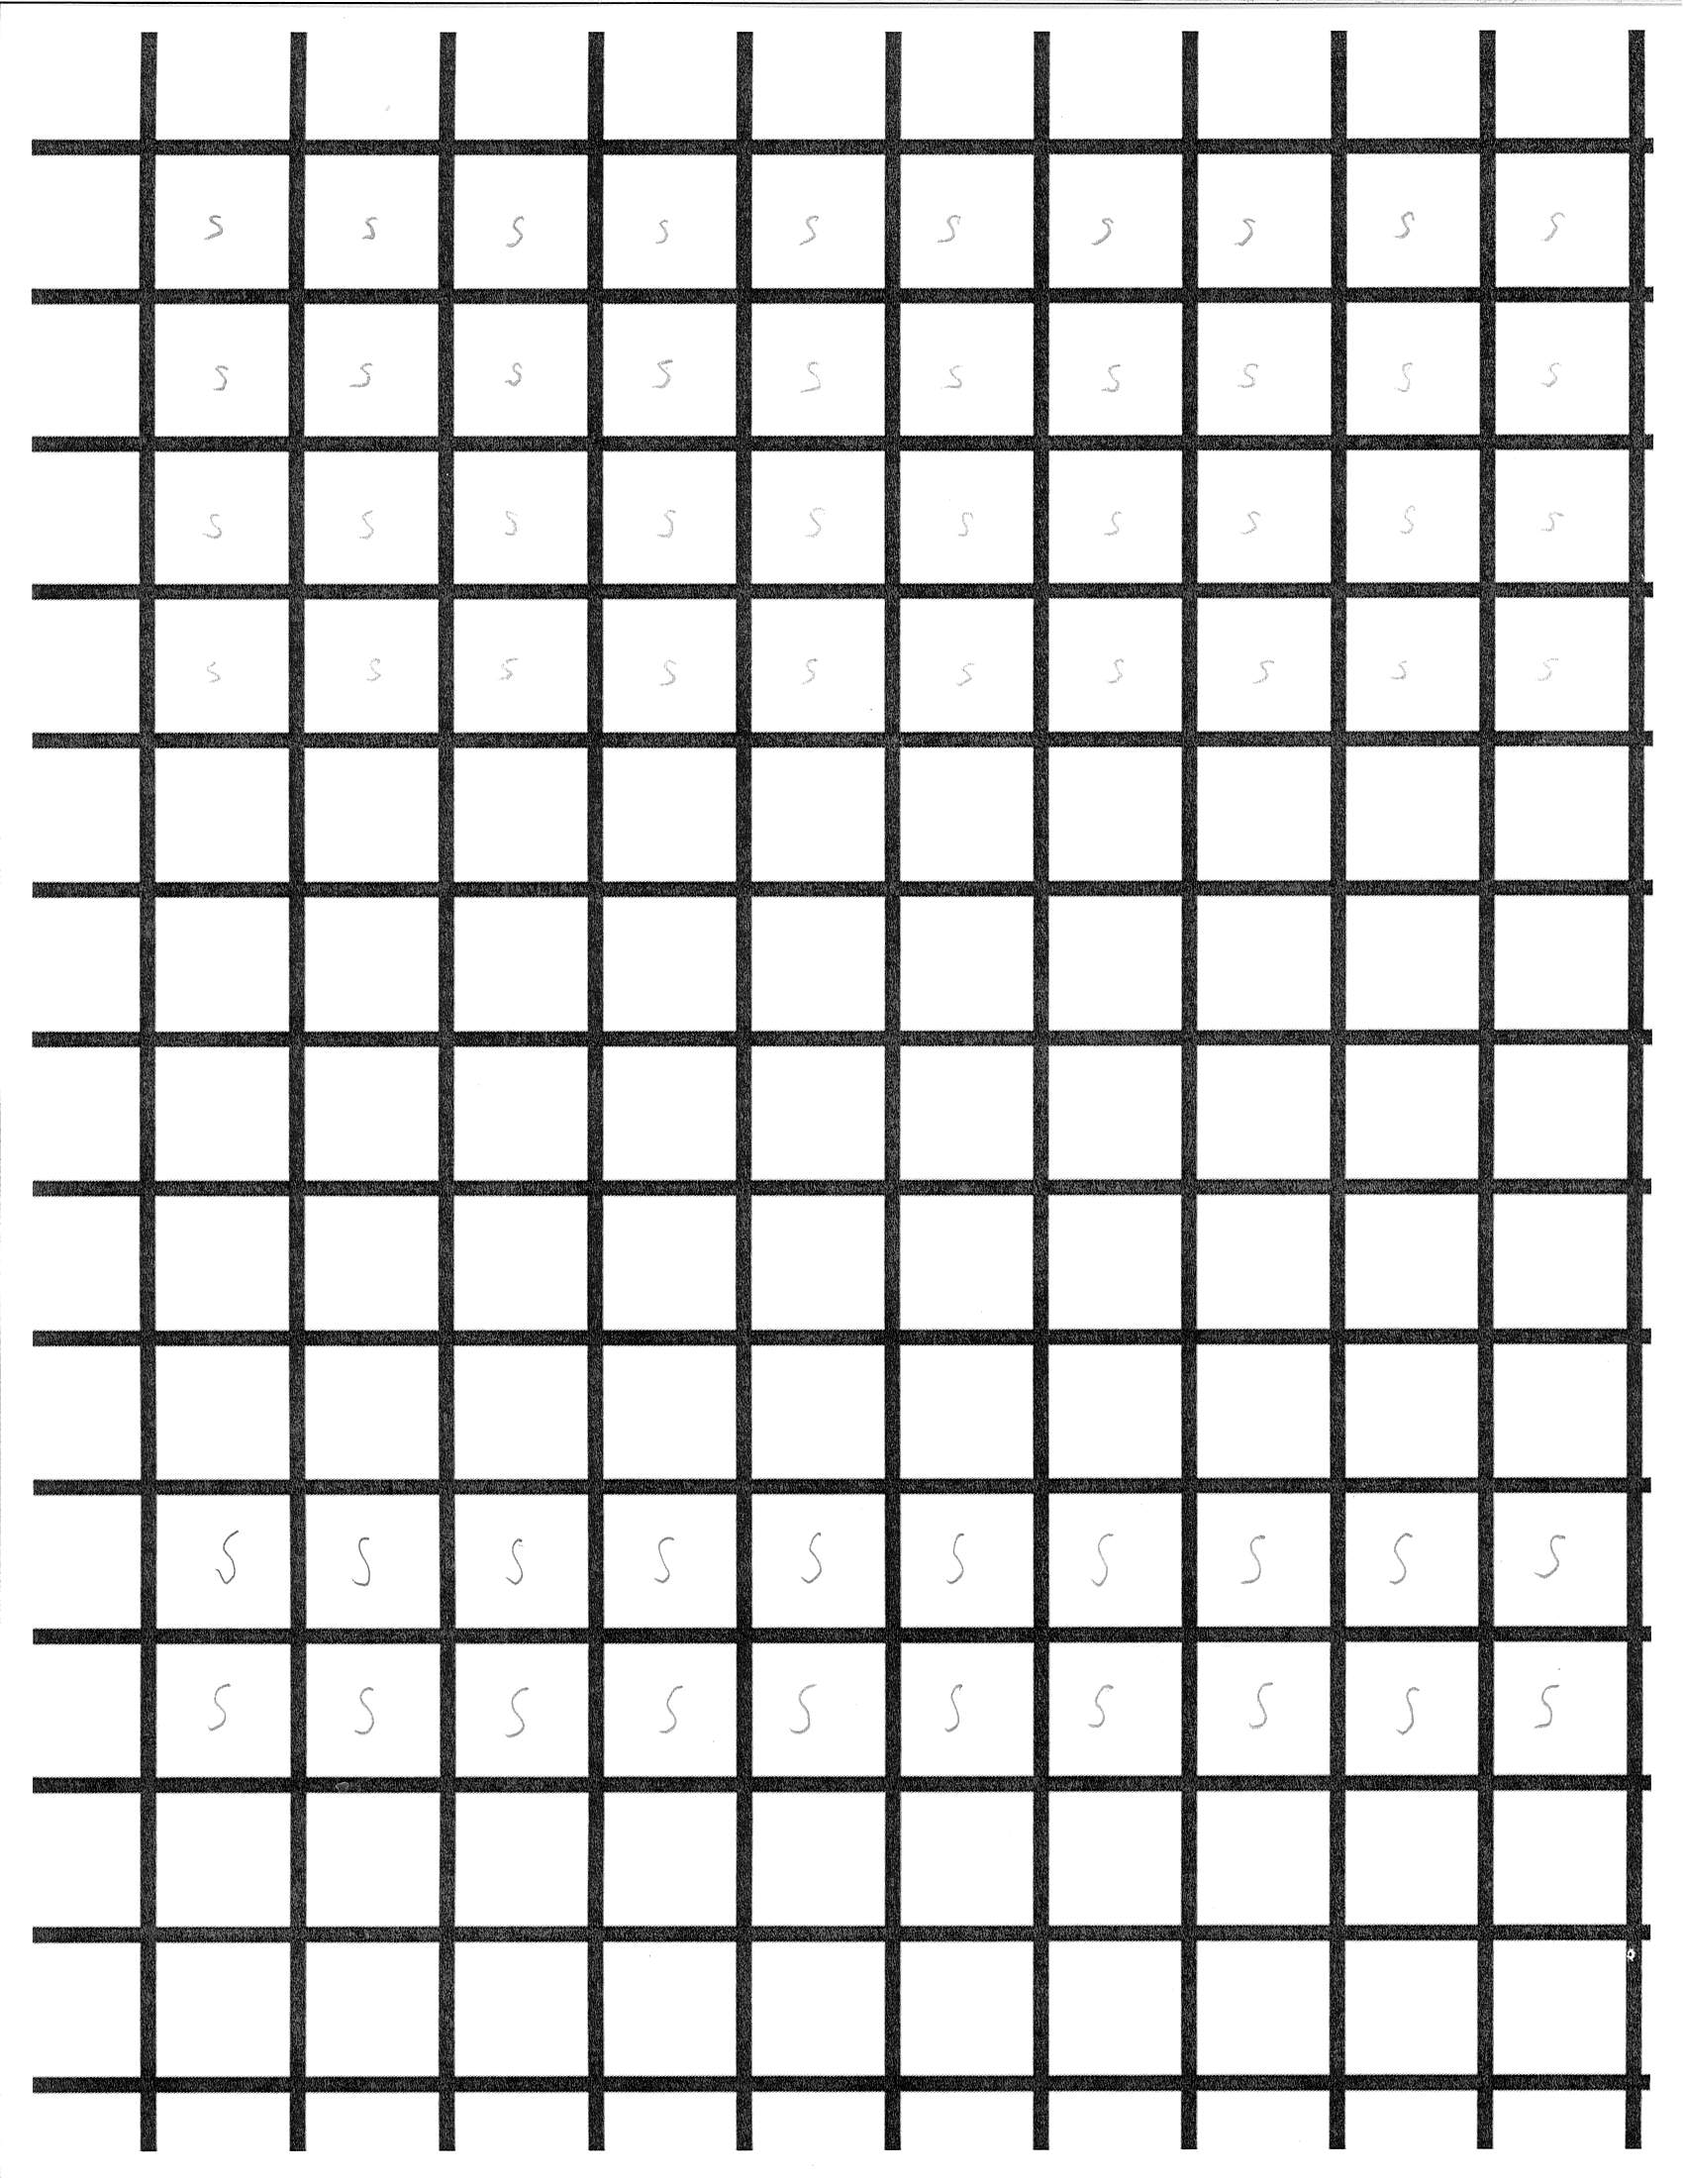
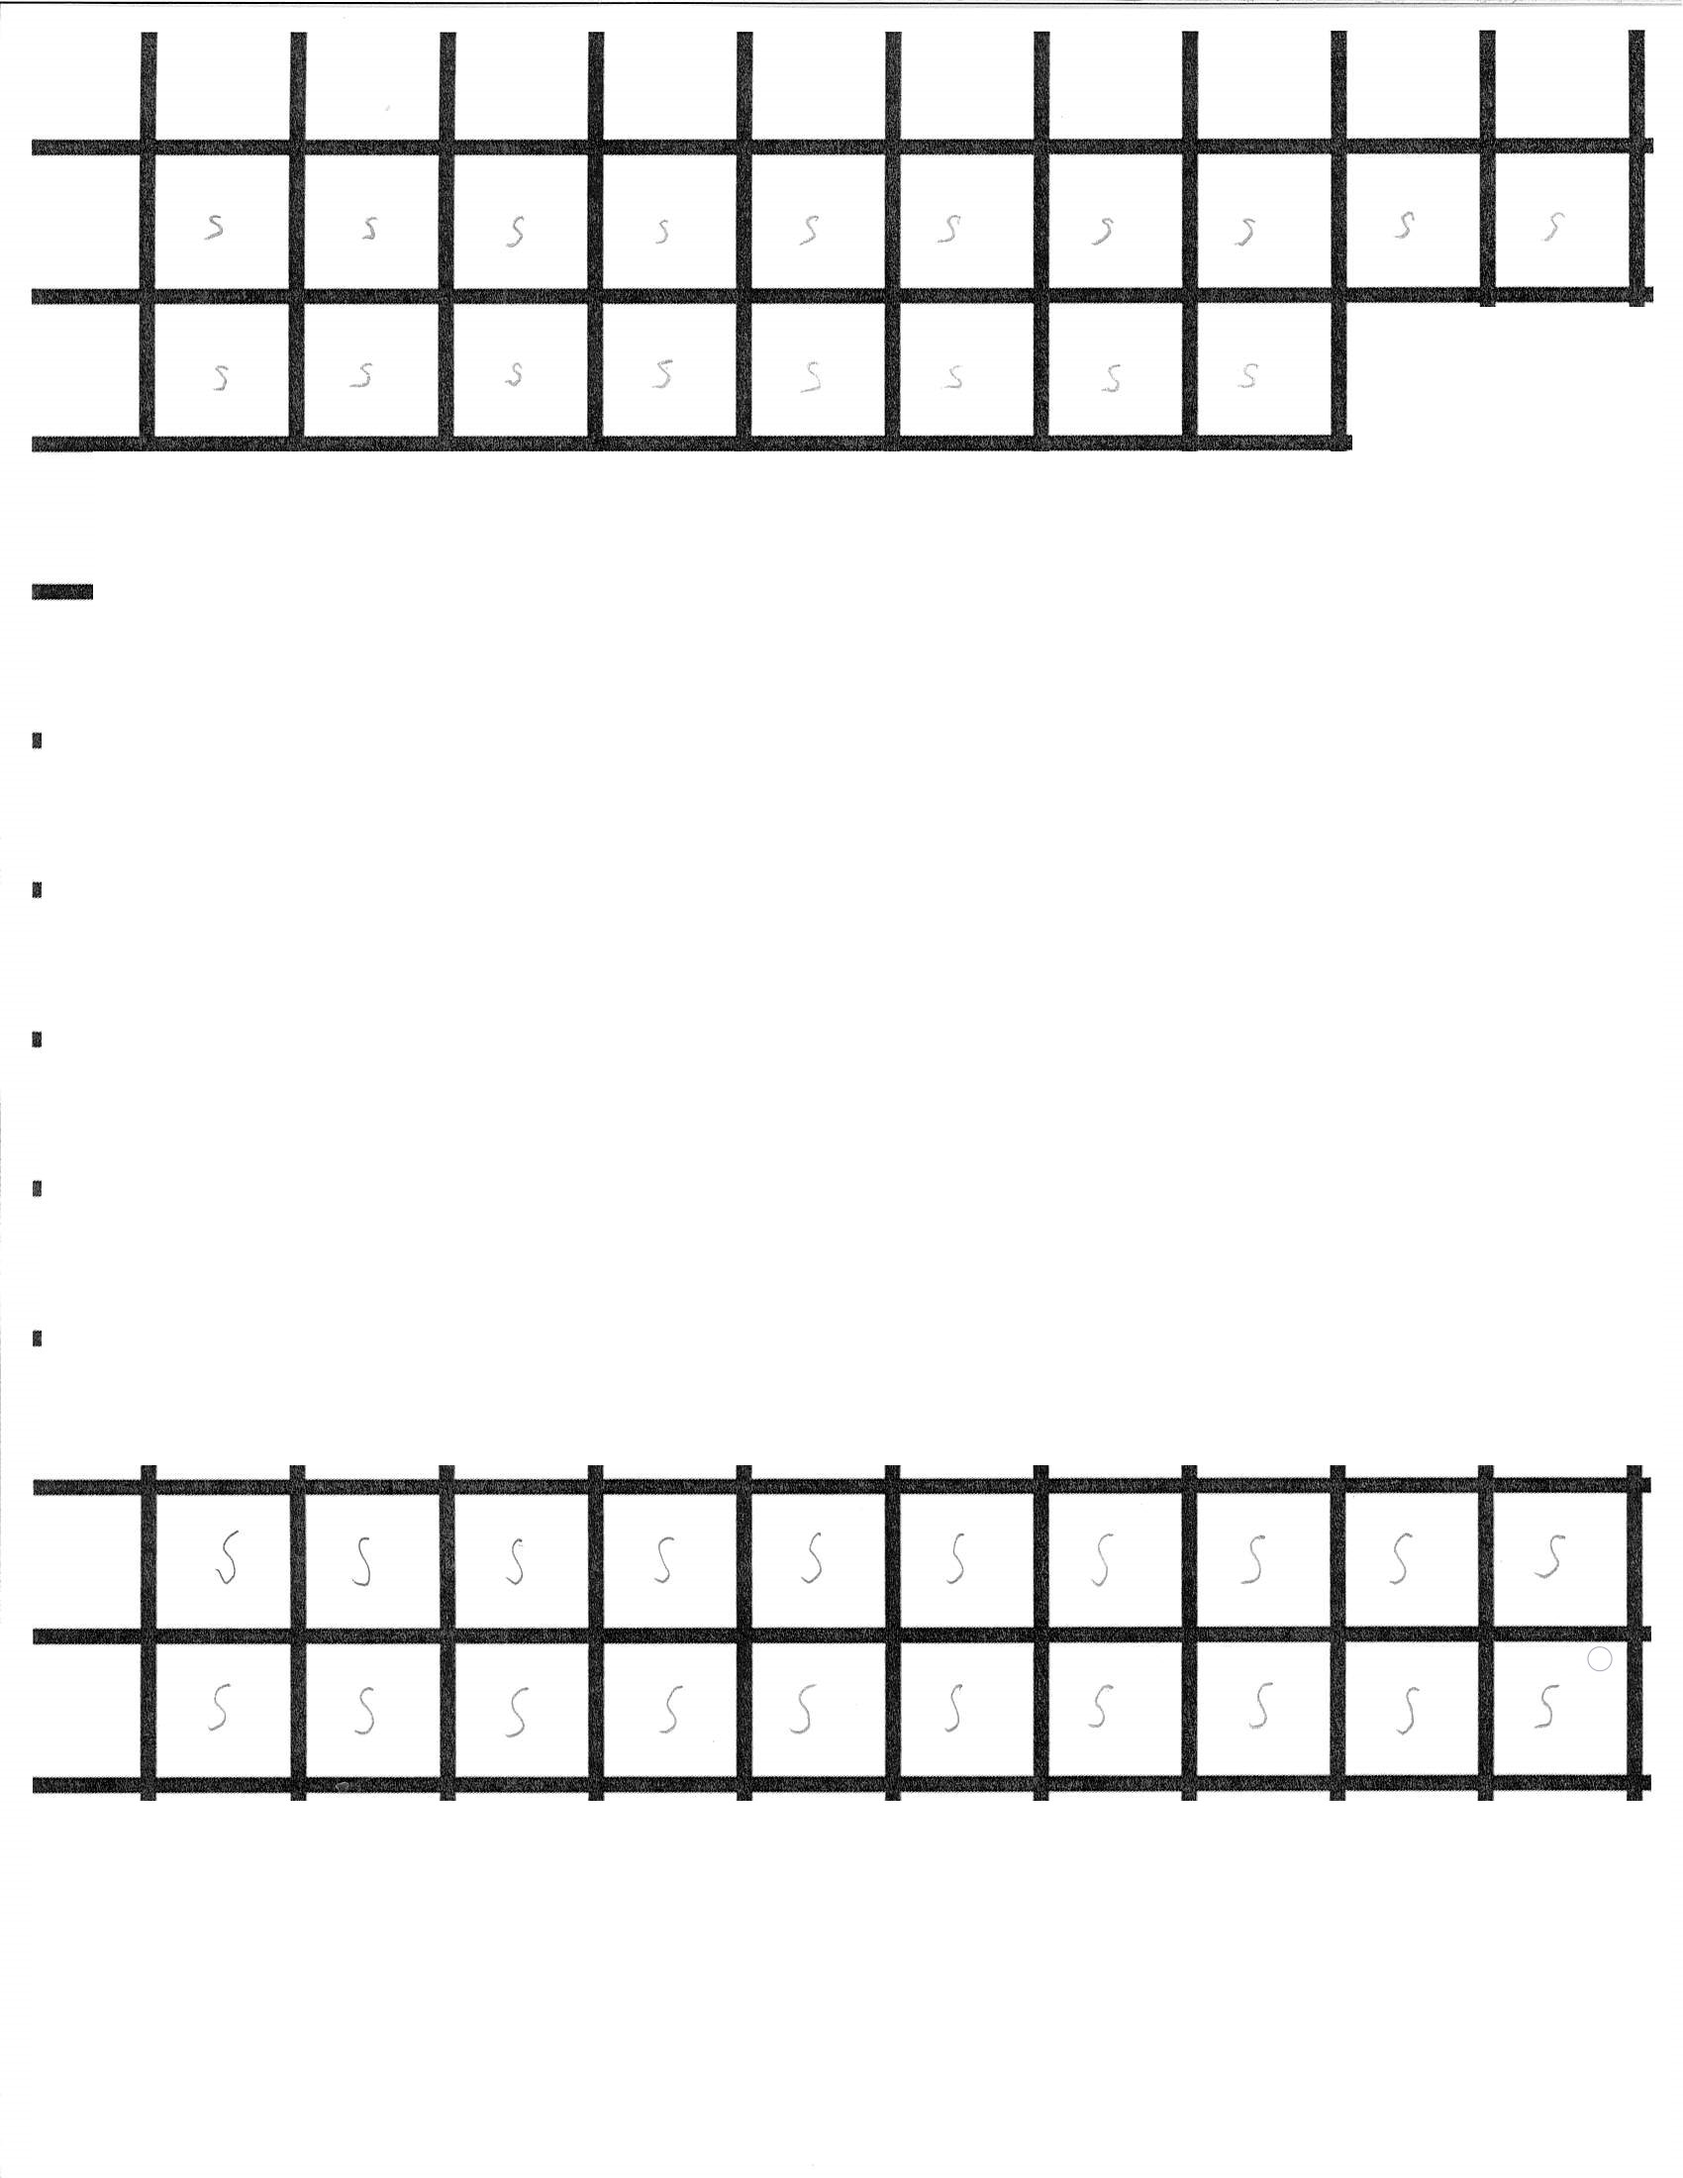
add word wrapping, change some characters

Changed region(s): [[0.0312, 0.1236, 0.9976, 0.68], [0.0, 0.8345, 0.9976, 0.9891]]

diff --git a/src/main/java/com/github/burgerguy/handwriter/main/gui/PageDisplay.java b/src/main/java/com/github/burgerguy/handwriter/main/gui/PageDisplay.java
@@ -6,9 +6,12 @@ import com.github.burgerguy.handwriter.image.GlyphImage;
 import com.github.burgerguy.handwriter.main.Main;
 import com.github.burgerguy.handwriter.page.Page;
 import com.github.burgerguy.handwriter.page.PageProvider;
+import com.github.burgerguy.handwriter.page.WordWrapMode;
 
 import javax.swing.*;
 import java.awt.*;
+import java.util.ArrayList;
+import java.util.List;
 import java.util.Random;
 import java.util.function.Supplier;
 
@@ -51,14 +54,14 @@ public class PageDisplay extends JComponent {
         currentPage.resetPointer();
         g.drawImage(currentPage.getBackgroundImage(), 0, 0, null);
         String text = textSupplier.get();
-        for (char c : text.toCharArray()) {
-//            float randomOffset = (random.nextFloat() * currentPage.randomOffsetMax()) - (currentPage.randomOffsetMax() / 4.0f);
-            float randomOffset = random.nextFloat() * currentPage.randomOffsetMax();
-            switch (c) {
-                case '\n' -> currentPage.nextLine();
-                case '\t' -> currentPage.addToPointer(currentPage.getWidth() * glyphFamily.getTabSize() + randomOffset);
-                case ' ' -> currentPage.addToPointer(currentPage.getWidth() * glyphFamily.getSpaceSize() + randomOffset);
-                default -> {
+        for (String line : text.split("\n")) {
+            for (String word : line.split(" ")) {
+
+                List<DrawableImage> drawableImages = new ArrayList<>();
+                float wordLength = 0;
+
+                for (char c : word.toCharArray()) {
+                    float randomOffset = random.nextFloat() * currentPage.randomOffsetMax();
                     Glyph glyph = glyphFamily.getForCharacter(c);
                     GlyphImage image = glyph.getImage();
                     int rawWidth = image.rawImage().getWidth(null);
@@ -66,14 +69,40 @@ public class PageDisplay extends JComponent {
                     float scaledHeight = image.heightInLines() * currentPage.getLineHeight() * currentPage.getHeight();
                     float scale = scaledHeight / rawHeight;
                     float scaledWidth = rawWidth * scale;
-                    g.drawImage(image.rawImage().getScaledInstance((int) scaledWidth, (int) scaledHeight, Image.SCALE_SMOOTH), (int) currentPage.getPointerX(), (int) (currentPage.getPointerY() - image.topFromAnchorPx() * scale), null);
-                    currentPage.addToPointer(scaledWidth + randomOffset);
+
+                    DrawableImage drawableImage = new DrawableImage(image.rawImage().getScaledInstance((int) scaledWidth, (int) scaledHeight, Image.SCALE_SMOOTH), image.topFromAnchorPx() * scale, scaledWidth + randomOffset);
+                    drawableImages.add(drawableImage);
+                    wordLength += drawableImage.width();
                 }
+
+                // word wrap
+                WordWrapMode wordWrapMode = currentPage.getWordWrapMode();
+
+                if (!wordWrapMode.equals(WordWrapMode.NONE)) {
+                    float wordWrapLocation = switch (wordWrapMode) {
+                        case BEFORE_WORD -> currentPage.getPointerX() + wordLength;
+                        case AFTER_WORD -> currentPage.getPointerX();
+                        default -> throw new IllegalStateException("Unexpected word wrap mode: " + wordWrapMode);
+                    };
+
+                    if (wordWrapLocation > currentPage.getWidth() * (1.0f - currentPage.getRightMargin())) {
+                        currentPage.nextLine();
+                    }
+                }
+
+                for (DrawableImage drawableImage : drawableImages) {
+                    g.drawImage(drawableImage.image(), (int) currentPage.getPointerX(), (int) (currentPage.getPointerY() - drawableImage.yOffset()), null);
+                    currentPage.addToPointer(drawableImage.width());
+                }
+                // add space to pointer
+                currentPage.addToPointer(currentPage.getWidth() * glyphFamily.getSpaceSize() + (random.nextFloat() * currentPage.randomOffsetMax()));
             }
+
+            currentPage.nextLine();
         }
     }
 
-
+    private record DrawableImage(Image image, float yOffset, float width) {}
 
 //    public void setPageNumber(int pageNo) {
 //        currentPage = pageProvider.getPage(pageNo);

diff --git a/src/main/java/com/github/burgerguy/handwriter/page/RandomBackgroundPageProvider.java b/src/main/java/com/github/burgerguy/handwriter/page/RandomBackgroundPageProvider.java
@@ -17,18 +17,18 @@ public class RandomBackgroundPageProvider implements PageProvider {
     private final float topMargin;
     private final float bottomMargin;
     private final float lineHeight;
-    private final boolean wordWrap;
+    private final WordWrapMode wordWrapMode;
     private final float randomOffset;
 
     // TODO: add memory for repeats
-    public RandomBackgroundPageProvider(int expectedPages, BufferedImage[] backgroundImages, float leftMargin, float rightMargin, float topMargin, float bottomMargin, float lineHeight, boolean wordWrap, float randomOffset, Random random) {
+    public RandomBackgroundPageProvider(int expectedPages, BufferedImage[] backgroundImages, float leftMargin, float rightMargin, float topMargin, float bottomMargin, float lineHeight, WordWrapMode wordWrapMode, float randomOffset, Random random) {
         this.backgroundImages = backgroundImages;
         this.leftMargin = leftMargin;
         this.rightMargin = rightMargin;
         this.topMargin = topMargin;
         this.bottomMargin = bottomMargin;
         this.lineHeight = lineHeight;
-        this.wordWrap = wordWrap;
+        this.wordWrapMode = wordWrapMode;
         this.random = random;
         this.randomOffset = randomOffset;
 
@@ -37,6 +37,6 @@ public class RandomBackgroundPageProvider implements PageProvider {
 
     @Override
     public Page getPage(int pageNo) {
-        return pageNoToPageMap.computeIfAbsent(pageNo, i -> new SimplePage(backgroundImages[random.nextInt(backgroundImages.length)], leftMargin, rightMargin, topMargin, bottomMargin, lineHeight, wordWrap, randomOffset));
+        return pageNoToPageMap.computeIfAbsent(pageNo, i -> new SimplePage(backgroundImages[random.nextInt(backgroundImages.length)], leftMargin, rightMargin, topMargin, bottomMargin, lineHeight, wordWrapMode, randomOffset));
     }
 }

diff --git a/src/main/java/com/github/burgerguy/handwriter/page/SimplePage.java b/src/main/java/com/github/burgerguy/handwriter/page/SimplePage.java
@@ -10,7 +10,7 @@ public class SimplePage implements Page {
     private final float topMargin;
     private final float bottomMargin;
     private final float lineHeight;
-    private final boolean wordWrap;
+    private final WordWrapMode wordWrapMode;
     private final float randomOffset;
 
     private final int pointerXStart;
@@ -18,14 +18,14 @@ public class SimplePage implements Page {
     private int pointerX;
     private int pointerY;
 
-    public SimplePage(BufferedImage backgroundImage, float leftMargin, float rightMargin, float topMargin, float bottomMargin, float lineHeight, boolean wordWrap, float randomOffset) {
+    public SimplePage(BufferedImage backgroundImage, float leftMargin, float rightMargin, float topMargin, float bottomMargin, float lineHeight, WordWrapMode wordWrapMode, float randomOffset) {
         this.backgroundImage = backgroundImage;
         this.leftMargin = leftMargin;
         this.rightMargin = rightMargin;
         this.topMargin = topMargin;
         this.bottomMargin = bottomMargin;
         this.lineHeight = lineHeight;
-        this.wordWrap = wordWrap;
+        this.wordWrapMode = wordWrapMode;
         this.randomOffset = randomOffset;
 
         pointerXStart = (int) (getWidth() * leftMargin);
@@ -65,8 +65,8 @@ public class SimplePage implements Page {
     }
 
     @Override
-    public boolean wordWrap() {
-        return wordWrap;
+    public WordWrapMode getWordWrapMode() {
+        return wordWrapMode;
     }
 
     @Override

diff --git a/src/main/java/com/github/burgerguy/handwriter/main/Main.java b/src/main/java/com/github/burgerguy/handwriter/main/Main.java
@@ -5,6 +5,7 @@ import com.github.burgerguy.handwriter.glyph.GlyphReader;
 import com.github.burgerguy.handwriter.main.gui.PageDisplay;
 import com.github.burgerguy.handwriter.page.PageProvider;
 import com.github.burgerguy.handwriter.page.RandomBackgroundPageProvider;
+import com.github.burgerguy.handwriter.page.WordWrapMode;
 
 import javax.imageio.*;
 import javax.imageio.stream.ImageInputStream;
@@ -79,7 +80,7 @@ public class Main {
                 13.0f / 110.0f, // 21.0f / 176.0f,
                 0.0f,
                 9.0f / 352.0f,
-                true,
+                WordWrapMode.AFTER_WORD,
                 4.0f,
                 random
         );

diff --git a/src/main/java/com/github/burgerguy/handwriter/glyph/MutableGlyphFamily.java b/src/main/java/com/github/burgerguy/handwriter/glyph/MutableGlyphFamily.java
@@ -42,11 +42,6 @@ public class MutableGlyphFamily implements GlyphFamily {
     }
 
     @Override
-    public float getTabSize() {
-        return getSpaceSize() * 4.0f;
-    }
-
-    @Override
     public Collection<Glyph> getAllGlyphs() {
         return charToGlyphMap.values();
     }

diff --git a/src/main/java/com/github/burgerguy/handwriter/glyph/GlyphFamily.java b/src/main/java/com/github/burgerguy/handwriter/glyph/GlyphFamily.java
@@ -6,5 +6,4 @@ public interface GlyphFamily {
     Glyph getForCharacter(char c);
     Collection<Glyph> getAllGlyphs();
     float getSpaceSize();
-    float getTabSize();
 }

diff --git a/src/main/java/com/github/burgerguy/handwriter/page/Page.java b/src/main/java/com/github/burgerguy/handwriter/page/Page.java
@@ -19,7 +19,7 @@ public interface Page {
 
     float getLineHeight();
 
-    boolean wordWrap();
+    WordWrapMode getWordWrapMode();
 
     float randomOffsetMax();
 

diff --git a/src/main/java/com/github/burgerguy/handwriter/page/WordWrapMode.java b/src/main/java/com/github/burgerguy/handwriter/page/WordWrapMode.java
@@ -1,0 +1,7 @@
+package com.github.burgerguy.handwriter.page;
+
+public enum WordWrapMode {
+    NONE,
+    BEFORE_WORD,
+    AFTER_WORD;
+}
